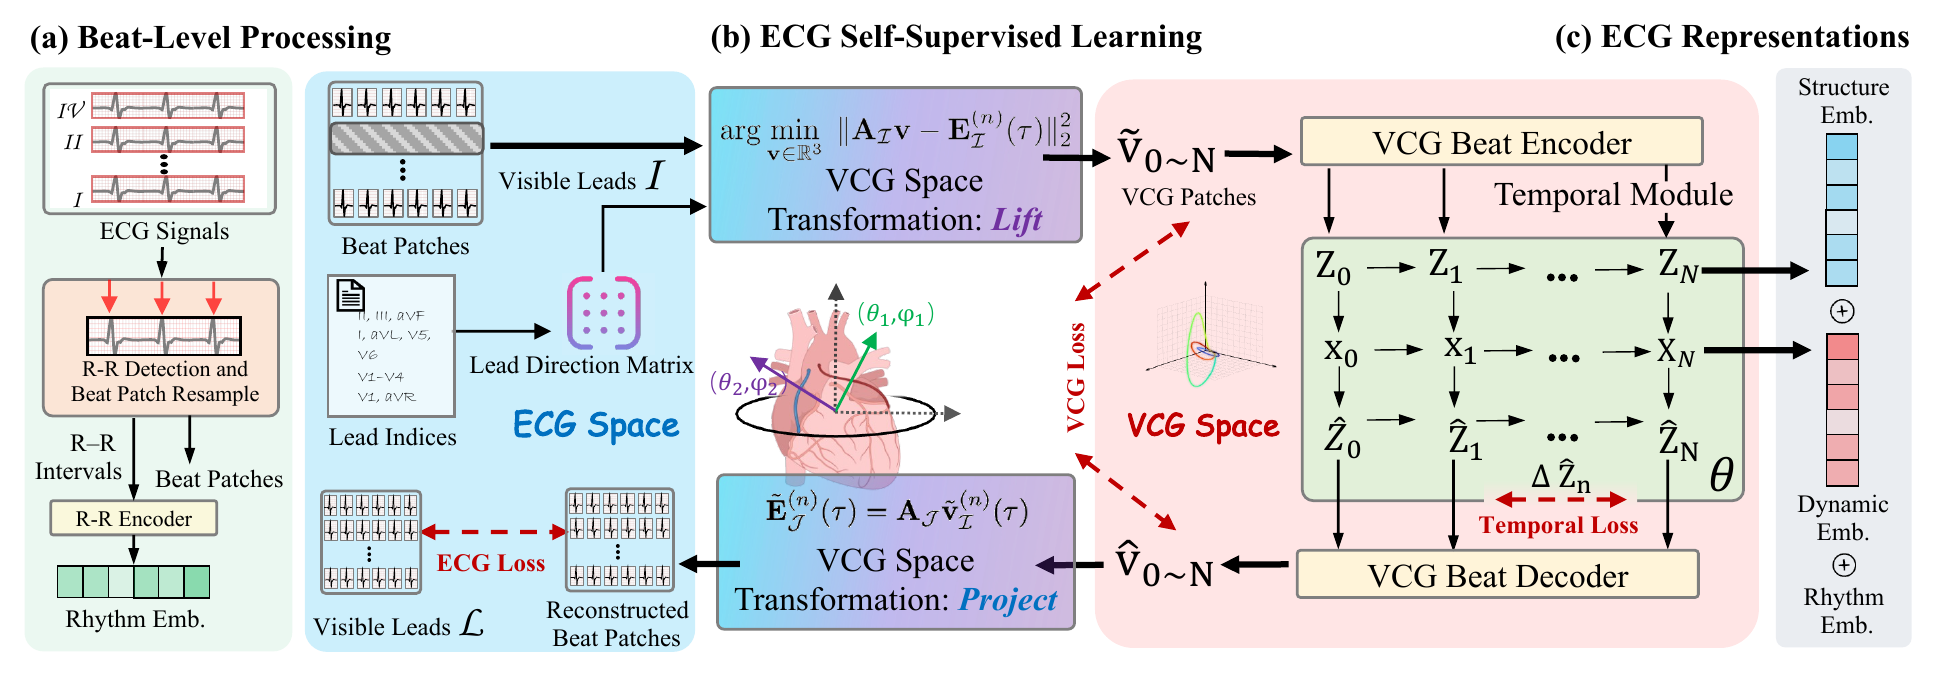
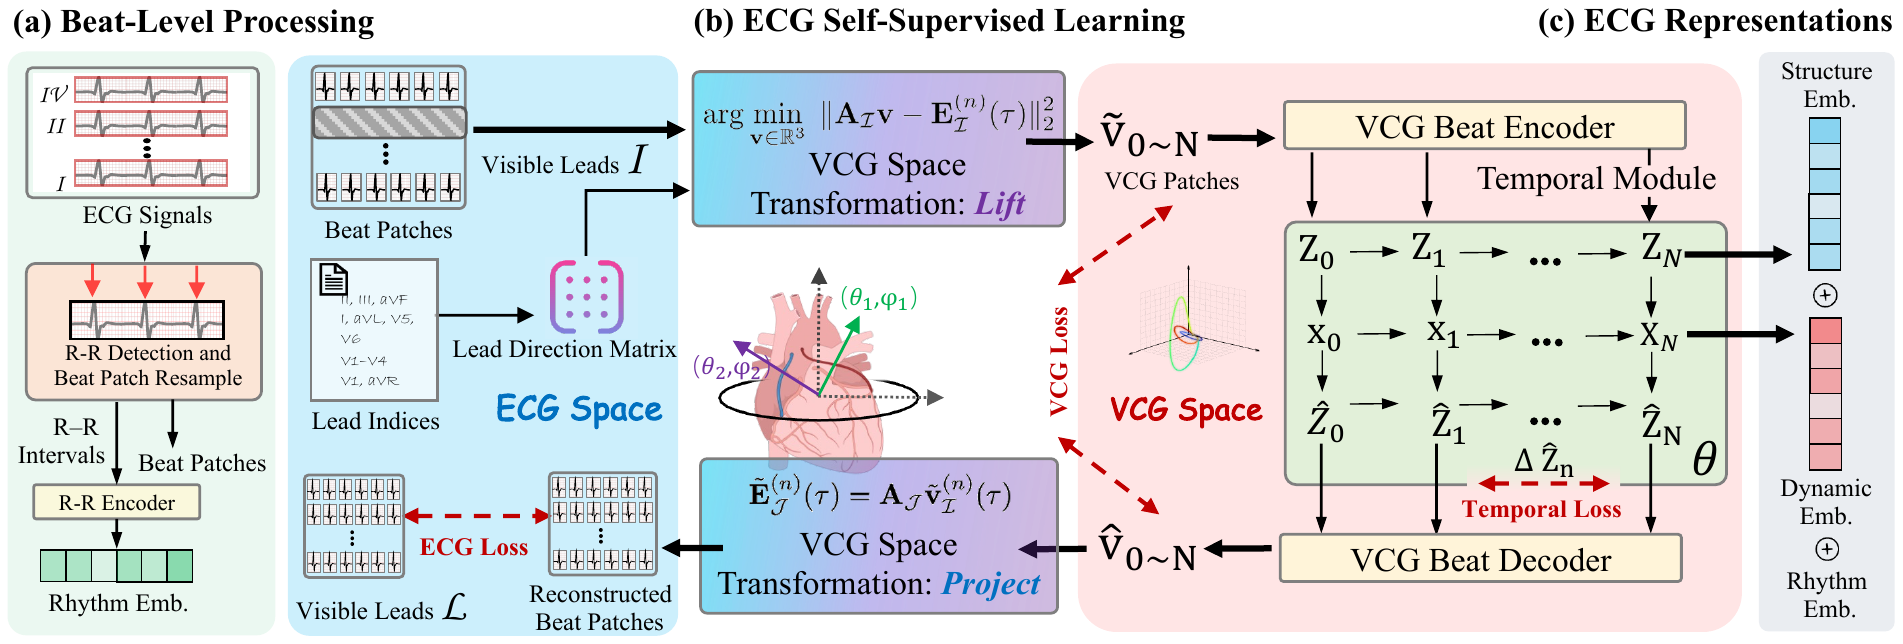
Tight-crop framework figure and scale to README width.

Changed region(s): [[0.0, 0.0, 1.0, 0.9938], [0.5891, 0.7453, 0.6201, 0.8075], [0.5581, 0.4037, 0.5891, 0.4348]]

diff --git a/README.md b/README.md
@@ -4,7 +4,9 @@
 
 *ICML 2026 · Official PyTorch implementation*
 
-![LVCG framework](asses/fig2.png)
+<p align="center">
+  <img src="asses/fig2.png" alt="LVCG framework" width="100%">
+</p>
 
 **LVCG** is the first general self-supervised framework for 12-lead ECG that learns in **latent vectorcardiogram (VCG) space** rather than raw lead signals. Because standard ECG is multiple linear views of the same cardiac field, lead-space learning entangles pathology with electrode geometry and generalizes poorly under domain shift; inspired by the Frank VCG model, LVCG instead recovers a unified 3D field and learns **view-invariant** representations via self-supervised multi-lead reconstruction—lifting visible leads, encoding beat morphology through a token bottleneck, modeling inter-beat dynamics, and projecting back to missing leads with a non-learnable geometry layer. This physically grounded design yields compact embeddings that transfer strongly to linear probing, multi-lead view reconstruction, and non-cardiac detection, especially with scarce labels and cross-site shift.
 
